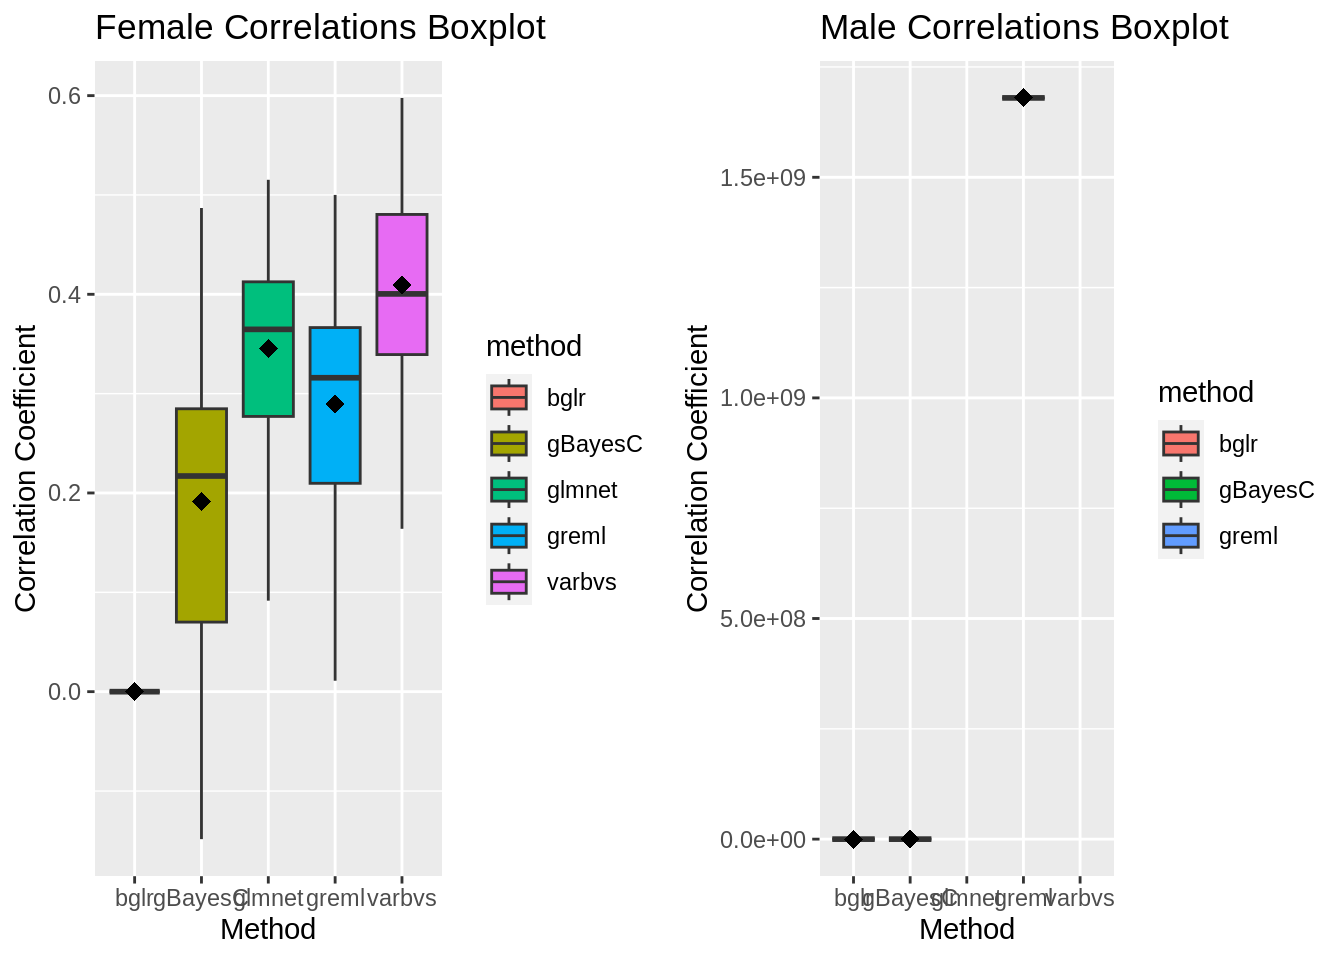
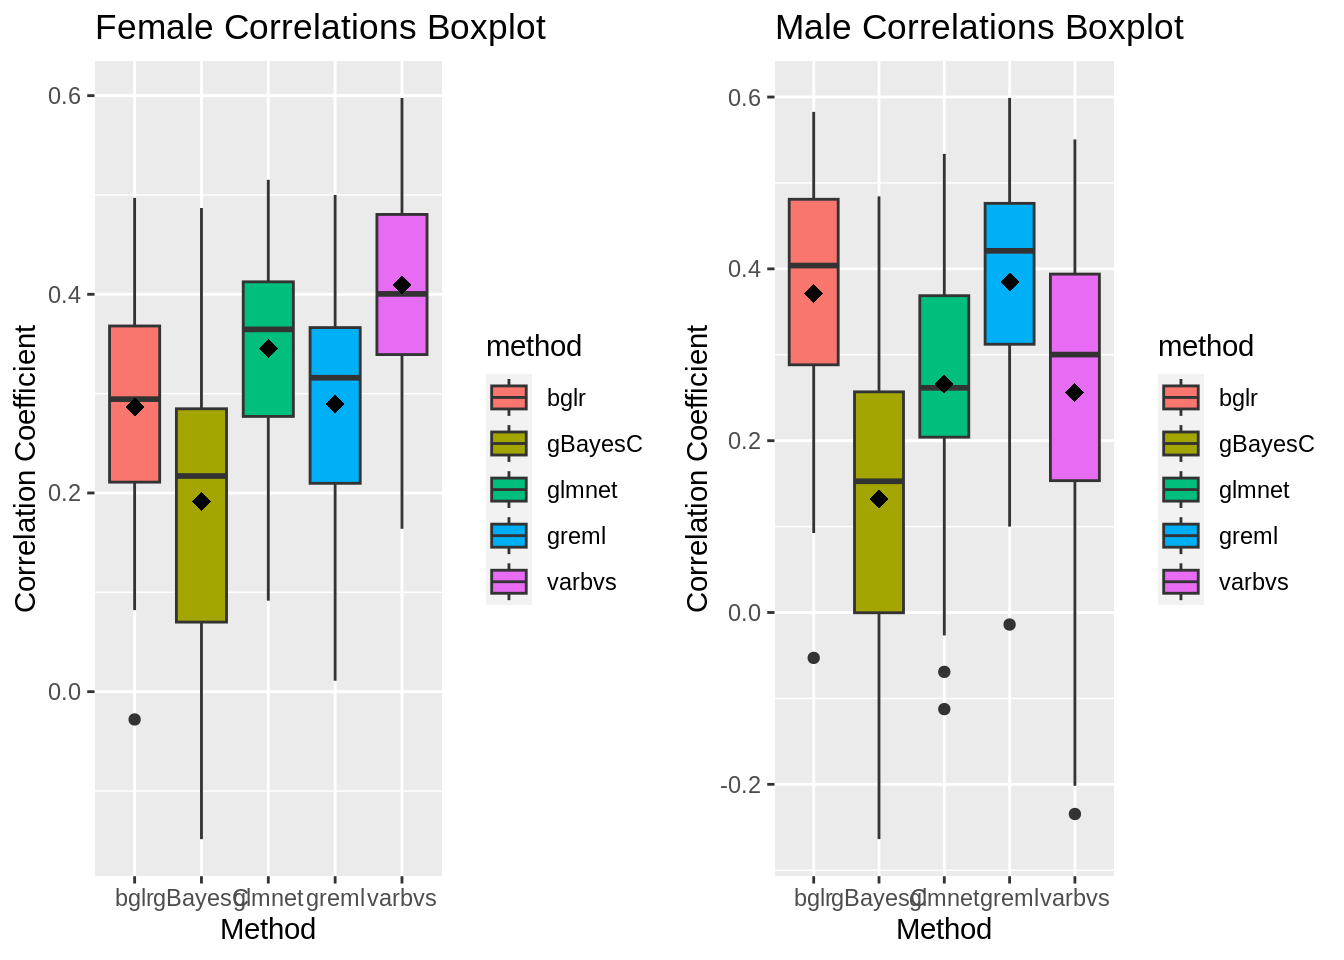
Build site.

diff --git a/docs/methodComp.html b/docs/methodComp.html
@@ -529,15 +529,15 @@ project makes it easier to run your code on other machines.</p>
 <div class="panel panel-default">
 <div class="panel-heading">
 <p class="panel-title">
-<a data-toggle="collapse" data-parent="#workflowr-checks" href="#strongRepositoryversionstrongahrefhttpsgithubcomnklimkodgrpstarvetreeaf523cd517a7899f8d554b10c01f246d29125eddtargetblankaf523cda">
+<a data-toggle="collapse" data-parent="#workflowr-checks" href="#strongRepositoryversionstrongahrefhttpsgithubcomnklimkodgrpstarvetreebe6876cafe93015b18c9f7c70665760dac4c9addtargetblankbe6876ca">
 <span class="glyphicon glyphicon-ok text-success"
 aria-hidden="true"></span> <strong>Repository version:</strong>
-<a href="https://github.com/nklimko/dgrp-starve/tree/af523cd517a7899f8d554b10c01f246d29125edd" target="_blank">af523cd</a>
+<a href="https://github.com/nklimko/dgrp-starve/tree/be6876cafe93015b18c9f7c70665760dac4c9add" target="_blank">be6876c</a>
 </a>
 </p>
 </div>
 <div
[2 lines of base64/hex data omitted]
 class="panel-collapse collapse">
 <div class="panel-body">
 <p>
@@ -547,7 +547,7 @@ reproducibility.
 </p>
 <p>
 The results in this page were generated with repository version
-<a href="https://github.com/nklimko/dgrp-starve/tree/af523cd517a7899f8d554b10c01f246d29125edd" target="_blank">af523cd</a>.
+<a href="https://github.com/nklimko/dgrp-starve/tree/be6876cafe93015b18c9f7c70665760dac4c9add" target="_blank">be6876c</a>.
 See the <em>Past versions</em> tab to see a history of the changes made
 to the R Markdown and HTML files.
 </p>
@@ -590,6 +590,7 @@ Untracked files:
     Untracked:  data/eQTL_traits_males.csv
     Untracked:  data/fRegress.txt
     Untracked:  data/fRegress_adj.txt
+    Untracked:  data/fm.burglar
     Untracked:  data/gbayesC-f.Rds
     Untracked:  data/gbayesC-m.Rds
     Untracked:  data/gbayesC.Rds
@@ -610,6 +611,7 @@ Untracked files:
     Untracked:  figure/
     Untracked:  mu.dat
     Untracked:  notes/
+    Untracked:  tracer.R
     Untracked:  varE.dat
 
 Unstaged changes:
@@ -676,6 +678,40 @@ Message
 </tr>
 </thead>
 <tbody>
+<tr>
+<td>
+Rmd
+</td>
+<td>
+<a href="https://github.com/nklimko/dgrp-starve/blob/be6876cafe93015b18c9f7c70665760dac4c9add/analysis/methodComp.Rmd" target="_blank">be6876c</a>
+</td>
+<td>
+nklimko
+</td>
+<td>
+2023-03-27
+</td>
+<td>
+wflow_publish("analysis/methodComp.Rmd")
+</td>
+</tr>
+<tr>
+<td>
+html
+</td>
+<td>
+<a href="https://rawcdn.githack.com/nklimko/dgrp-starve/5b9c5a54a2b400bbba6985de2eb4a25517840911/docs/methodComp.html" target="_blank">5b9c5a5</a>
+</td>
+<td>
+nklimko
+</td>
+<td>
+2023-03-27
+</td>
+<td>
+Build site.
+</td>
+</tr>
 <tr>
 <td>
 html
@@ -891,7 +927,7 @@ corLoop &lt;- foreach(i=1:iter) %dopar% {
   y_test &lt;- y[test_IDs]
   
    ### BGLR
-  fitBGLR &lt;- BGLR::BGLR(y_train, response_type = &quot;gaussian&quot;, a=NULL, b=NULL,ETA = list(list(X=W_train, model=&quot;BayesC&quot;)), nIter = 10, burnIn = 2)
+  fitBGLR &lt;- BGLR::BGLR(y_train, response_type = &quot;gaussian&quot;, a=NULL, b=NULL,ETA = list(list(X=W_train, model=&quot;BayesC&quot;)), nIter = 500, burnIn = 200)
   
   y_calc &lt;- predict(fitBGLR, W_test)
   
@@ -971,7 +1007,7 @@ for(i in 1:iter){
   fit_gbayesC[[i]] &lt;- bayesF[[i]][1]
   fit_varbvs[[i]] &lt;- corLoop[[i]][2]
   fit_glmnet[[i]] &lt;- corLoop[[i]][3]
-  fit_bglr[[i]] &lt;- bglrLoop[[i]][1]
+  fit_bglr[[i]] &lt;- bglrLoop[[i]][5]
 }
 
 temp &lt;- c(unlist(fit_greml), unlist(fit_gbayesC), unlist(fit_varbvs), unlist(fit_glmnet), unlist(fit_bglr))
@@ -988,7 +1024,7 @@ gg[[1]] &lt;- ggplot(data, aes(x=method, y=cor, fill=method)) +
                shape=18, size=3, show.legend=FALSE) </code></pre>
 <pre class="r"><code># results loaded from correlation loop structure
 bayesM &lt;- readRDS(&quot;data/bayesM.rds&quot;)
-corLoop &lt;- readRDS(&quot;data/corLoop-m-minus.rds&quot;)
+corLoop &lt;- readRDS(&quot;data/corLoop-m-Minus.rds&quot;)
 bglrLoop &lt;- readRDS(&quot;data/bglr-m.rds&quot;)
 
 for(i in 1:iter){
@@ -996,7 +1032,7 @@ for(i in 1:iter){
   fit_gbayesC[[i]] &lt;- bayesM[[i]][1]
   fit_varbvs[[i]] &lt;- corLoop[[i]][2]
   fit_glmnet[[i]] &lt;- corLoop[[i]][3]
-  fit_bglr[[i]] &lt;- bglrLoop[[i]][1]
+  fit_bglr[[i]] &lt;- bglrLoop[[i]][5]
 }
 
 temp &lt;- c(unlist(fit_greml), unlist(fit_gbayesC), unlist(fit_varbvs), unlist(fit_glmnet), unlist(fit_bglr))
@@ -1014,8 +1050,6 @@ gg[[2]] &lt;- ggplot(data, aes(x=method, y=cor, fill=method)) +
 <div id="correlation-coefficient-boxplots" class="section level3">
 <h3>Correlation Coefficient Boxplots</h3>
 <pre class="r"><code>plot_grid(gg[[1]],gg[[2]], ncol=2)</code></pre>
-<pre><code>Warning: Removed 100 rows containing non-finite values (`stat_boxplot()`).</code></pre>
-<pre><code>Warning: Removed 100 rows containing non-finite values (`stat_summary()`).</code></pre>
 <p><img src="figure/methodComp.Rmd/plot-print-1.png" width="672" style="display: block; margin: auto;" /></p>
 <p>
 <button type="button" class="btn btn-default btn-xs btn-workflowr btn-workflowr-fig" data-toggle="collapse" data-target="#fig-plot-print-1">
@@ -1039,6 +1073,17 @@ Date
 </tr>
 </thead>
 <tbody>
+<tr>
+<td>
+<a href="https://github.com/nklimko/dgrp-starve/blob/5b9c5a54a2b400bbba6985de2eb4a25517840911/docs/figure/methodComp.Rmd/plot-print-1.png" target="_blank">5b9c5a5</a>
+</td>
+<td>
+nklimko
+</td>
+<td>
+2023-03-27
+</td>
+</tr>
 <tr>
 <td>
 <a href="https://github.com/nklimko/dgrp-starve/blob/af523cd517a7899f8d554b10c01f246d29125edd/docs/figure/methodComp.Rmd/plot-print-1.png" target="_blank">af523cd</a>
